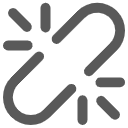
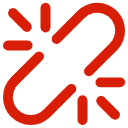
[Update] Update the control button region

diff --git a/GuiRender/RegBlock.py b/GuiRender/RegBlock.py
@@ -15,10 +15,6 @@ class EntryPopup(ttk.Entry):
 
         self.insert(0, text)
 
-        # self['state'] = 'readonly'
-        # self['readonlybackground'] = 'white'
-        # self['selectbackground'] = '#1BA1E2'
-
         self['exportselection'] = False
 
         self.focus_force()
@@ -127,6 +123,9 @@ class ModifyTree(ttk.Treeview):
         # re parse pattern
         self._pattern = re.compile(r"(?P<Address>0x[0-9a-fA-F]+)[\s\|]*(?P<Field0>[0-9]*):*(?P<Field1>[0-9]*)")
 
+        # Registe the handler to control widget
+        self._control_handler.modify_tree_register(self)
+
     def generate(self, mid_value, level):
         self._level = level
         self._tree_root = mid_value
@@ -184,10 +183,13 @@ class ModifyTree(ttk.Treeview):
         # place Entry popup properly
         text = self.item(rowid, "values")
 
-        self._entryPopup = EntryPopup(self, rowid, text[-1], width=self._top_columns_width[-1], justify=tkinter.CENTER)
+        self._entryPopup = EntryPopup(self, rowid, text[-1], control=self._control_handler, width=self._top_columns_width[-1], justify=tkinter.CENTER)
         self._entryPopup.place(x=x, y=y + pady, anchor=tkinter.W, width=self._top_columns_width[-1])
 
     def _double_click_(self, event):
+        item = self.focus()
+        if item:
+            self.delete(item)
         return 'break'
 
     def _destroy_pop_up(self):
@@ -241,6 +243,10 @@ class DisplayTree(ttk.Treeview):
         # Get the control handler
         self._control_handler = control
 
+        # Expand re
+        self._find_indexs_pattern = re.compile(r"\[(?P<Number>[0-9]+)\]")
+        self._locate_indexs_pattern = re.compile(r"<ARRAY_INDEX>")
+
         # Construct the TreeView
         for _sub in self._tree_root:
             if _sub:
@@ -260,7 +266,7 @@ class DisplayTree(ttk.Treeview):
             else:
                 # restore
                 self._level = 0
-                self._parent = [""]
+                self._parent = ""
                 self._address = 0
         # Level 1, 2 have another function to deal
         else:
@@ -281,6 +287,16 @@ class DisplayTree(ttk.Treeview):
                 else:
                     prop = ""
 
+                if self._level == 1:
+                    level = self._level
+                    parent = self._parent
+                    address = self._address
+                    if self._expand(i):
+                        self._level = level
+                        self._parent = parent
+                        self._address = address
+                        continue
+
                 # Insert information into tree view
                 self._cur_iid = self.insert(self._parent, "end", iid=None,
                                             text=i["Register\nName"], image=self._image_tag[self._level],
@@ -298,6 +314,82 @@ class DisplayTree(ttk.Treeview):
             # to get the current parent iid
             self._parent = self.parent(self._parent)
             self._level -= 1
+
+    def _expand(self, i):
+        rslt = self._find_indexs_pattern.search(i["Register\nName"])
+
+        # Search the indexs
+        if rslt:
+            # Collect the key in dictionary
+            if 'Sub-Addr\n(Hex)' in i.keys():
+                sub_addr = int(i['Sub-Addr\n(Hex)'], base=16) + self._address
+            else:
+                sub_addr = ""
+
+            if 'Start\nBit' and 'End\nBit' in i.keys():
+                field = "%d:%d" % (int(i['Start\nBit']), int(i['End\nBit']))
+            else:
+                field = ""
+
+            if 'R/W\nProperty' in i.keys():
+                prop = i['R/W\nProperty']
+            else:
+                prop = ""
+
+            for num in range(int(rslt.group("Number"))):
+
+                name = i["Register\nName"][0: rslt.span()[0]] + str(num)
+
+                self._cur_iid = self.insert(self._parent, "end", iid=None,
+                                            text=name,
+                                            image=self._image_tag[self._level],
+                                            values=(hex(sub_addr + 4*num) if sub_addr else sub_addr, field, prop),
+                                            tags=self._level
+                                            )
+
+                # Exist the children
+                if i["Level"]:
+                    self._parent = self._cur_iid
+                    self._level += 1
+                    # Recursive into the next level
+                    self._subexpand(i["Level"], num)
+
+            self._parent = self.parent(self._parent)
+            self._level -= 1
+
+            return True
+
+        else:
+            return False
+
+    def _subexpand(self, root, num):
+        for i in root:
+            # Collect the key in dictionary
+            if 'Sub-Addr\n(Hex)' in i.keys():
+                sub_addr = int(i['Sub-Addr\n(Hex)'], base=16) + self._address
+            else:
+                sub_addr = ""
+
+            if 'Start\nBit' and 'End\nBit' in i.keys():
+                field = "%d:%d" % (int(i['Start\nBit']), int(i['End\nBit']))
+            else:
+                field = ""
+
+            if 'R/W\nProperty' in i.keys():
+                prop = i['R/W\nProperty']
+            else:
+                prop = ""
+
+            name = self._locate_indexs_pattern.sub(str(num), i["Register\nName"])
+
+            # Insert information into tree view
+            self._cur_iid = self.insert(self._parent, "end", iid=None,
+                                        text=name, image=self._image_tag[self._level],
+                                        values=(hex(sub_addr) if sub_addr else sub_addr, field, prop),
+                                        tags=self._level)
+
+        self._parent = self.parent(self._parent)
+        self._level -= 1
 
     def _item_recursive(self, items):
         if not items:
@@ -350,12 +442,47 @@ class DisplayTree(ttk.Treeview):
 
 class FlatButton(tkinter.Button):
     def __init__(self, master, **kwargs):
+        self._hover_color = "#4c5052"
+        self._default_bg_color = "#3c3f41"
         super(FlatButton, self).__init__(master, relief=tkinter.FLAT, activebackground="#4c5052", bg="#3c3f41", highlightcolor="#4c5052", takefocus=True, **kwargs)
+        self.bind("<Enter>", self._on_enter)
+        self.bind("<Leave>", self._on_level)
+
+    def _on_enter(self, event):
+        self.configure(bg=self._hover_color)
+
+    def _on_level(self, event):
+        self.configure(bg=self._default_bg_color)
 
 
 class DarkLabel(tkinter.Label):
     def __init__(self, master, **kwargs):
         super(DarkLabel, self).__init__(master, relief=tkinter.FLAT, bg="#3c3f41", **kwargs)
+
+
+class AutoCheck(tkinter.Checkbutton):
+    def __init__(self, master, control, **kwargs):
+        self._default_font_color = "#a7a7a7"
+        self._inner_bg_color = "#43494a"
+        self._default_bg_color = "#3c3f41"
+        self.autovar = tkinter.StringVar()
+        super(AutoCheck, self).__init__(master, bg=self._default_bg_color, fg=self._default_font_color,
+                                        selectcolor=self._inner_bg_color,
+                                        activebackground=self._default_bg_color,
+                                        variable=self.autovar,
+                                        onvalue="auto",
+                                        offvalue="bluntness",
+                                        **kwargs)
+        self.deselect()
+        self._control_handler = control
+
+    def _click_callback(self):
+        if self.autovar.get() == "auto":
+            pass
+        elif self.autovar.get() == "bluntness":
+            pass
+        else:
+            pass
 
 
 class StageButton(ttk.Frame):
@@ -392,32 +519,42 @@ class StageButton(ttk.Frame):
         self._connect_button = FlatButton(self._control_button_frame, image=self._open_image, command=self._connect)
         self._connect_button.grid(row=0, column=0, sticky="nswe", padx="4", pady="2")
 
-        # Refresh button
-        self._refresh_button = FlatButton(self._control_button_frame, image=self._refresh_dark_image, command=self._refresh)
-        self._refresh_button.grid(row=0, column=1, sticky="nswe", padx="4", pady="2")
-
         # Stop button
         self._disconnect_button = FlatButton(self._control_button_frame, image=self._stop_dark_image, command=self._disconnect)
-        self._disconnect_button.grid(row=0, column=2, sticky="nswe", padx="4", pady="2")
+        self._disconnect_button.grid(row=0, column=1, sticky="nswe", padx="4", pady="2")
 
         # Separator
-        ttk.Separator(self._control_button_frame, orient=tkinter.VERTICAL).grid(row=0, column=3, sticky="ns", pady="4")
+        ttk.Separator(self._control_button_frame, orient=tkinter.VERTICAL).grid(row=0, column=2, sticky="ns", pady="4")
+
+        # Refresh button
+        self._refresh_button = FlatButton(self._control_button_frame, image=self._refresh_dark_image, command=self._refresh)
+        self._refresh_button.grid(row=0, column=3, sticky="nswe", padx="4", pady="2")
+
+        self._auto_check_button = AutoCheck(self._control_button_frame, self._control_handler)
+        self._auto_check_button.grid(row=0, column=4, sticky="nswe", padx="4", pady="2")
+
+        ttk.Separator(self._control_button_frame, orient=tkinter.VERTICAL).grid(row=0, column=5, sticky="ns", pady="4")
 
         # Stage label
         self._stage_label = DarkLabel(self._control_button_frame, image=self._disconnect_image)
-        self._stage_label.grid(row=0, column=4, sticky="nswe", padx="4", pady="2")
-        # tkinter.Button(self, image=self._refresh_image, relief=tkinter.FLAT, activebackground="#4c5052", bg="#3c3f41").pack(side="left")
+        self._stage_label.grid(row=0, column=6, sticky="nswe", padx="4", pady="2")
 
     def _connect(self):
         if self._control_handler.connect():
-            self._connect_button.configure(style="Stage.TButton", image=self._connect_image, text="connect")
-            self._connect_button.configure()
+            self._connect_button.configure(image=self._open_dark_image)
+            self._refresh_button.configure(image=self._refresh_image)
+            self._disconnect_button.configure(image=self._stop_image)
+            self._stage_label.configure(image=self._connect_image)
 
     def _refresh(self):
-        pass
+        self._control_handler.tree_refresh()
 
     def _disconnect(self):
-        pass
+        if self._control_handler.disconnect():
+            self._connect_button.configure(image=self._open_image)
+            self._refresh_button.configure(image=self._refresh_dark_image)
+            self._disconnect_button.configure(image=self._stop_dark_image)
+            self._stage_label.configure(image=self._disconnect_image)
 
 
 class DscpFrame(ttk.Frame):

diff --git a/GuiRender/control.py b/GuiRender/control.py
@@ -7,10 +7,15 @@ import logging
 class Control:
     def __init__(self):
         self._SWD = None
+        self._connected = False
+        # Modify Tree Handler
+        self._modify_tree_h = None
 
     def connect(self):
         try:
             self._SWD = SelfSWD()
+            self._connected = True
+            logging.info("Connect to the target CORTEX-M33")
         except:
             # Can't open SWD
             self._SWD = None
@@ -21,7 +26,17 @@ class Control:
         return True
 
     def connected(self):
-        return self._SWD.connected()
+        return self._connected
+
+    def disconnect(self):
+        if self.connected():
+            del self._SWD
+            self._connected = False
+            logging.info("Disconnect success")
+            return True
+        else:
+            logging.error("Need connect target first")
+            return False
 
     def write32_plus(self, tpl, data):
         if tpl[1] or tpl[2]:
@@ -59,3 +74,32 @@ class Control:
         mask.invert()
         mask = mask[1:]
         return mask.uint
+
+    def modify_tree_register(self, handler):
+        self._modify_tree_h = handler
+
+    def tree_refresh(self):
+        # Connect and obtain the modify tree handler
+        if self._modify_tree_h and self._connected:
+            # Get all the modify tree items
+            logging.info("Get the tree values")
+            self._sub_tree_refresh()
+
+    def _sub_tree_refresh(self, p=None):
+        items = self._modify_tree_h.get_children(p)
+        if not items:
+            return
+        for item in items:
+            # Get corresponding tree item information
+            dct = self._modify_tree_h.item(item)
+            # Ignore the level0
+            if dct["tags"][0] == 0:
+                pass
+            else:
+                # Get the corresponding address value again
+                value = str(hex(self.read32_plus(self._modify_tree_h.parse_address(dct["values"][0]))))
+                values = dct["values"]
+                values[-1] = value
+                # Reload
+                self._modify_tree_h.item(item, values=values)
+            self._sub_tree_refresh(item)

diff --git a/GuiRender/__init__.py b/GuiRender/__init__.py
@@ -7,13 +7,13 @@ import tkinter
 class GUIBody:
     def __init__(self, para):
         self._root = tkinter.Tk()
-        self._root.title("ListenAI Jlink Tool")
+        self._root.title("JG Kit")
         self._root.geometry("1600x800")
         self._root.resizable(width=False, height=False)
-        self._root.wm_attributes("-topmost", 1)
+        self._root.iconphoto(True, tkinter.PhotoImage(file="./GuiRender/.image/icon/exchange.png"))
 
         # Configure style
-        # self._base_style()
+        self._base_style()
         self._control_handler = Control()
 
         self._regtree = RegBlock.RegTree(self._root, self._control_handler, para)
@@ -22,7 +22,8 @@ class GUIBody:
 
         self._root.mainloop()
 
-    # def _base_style(self):
+    def _base_style(self):
+        pass
         # style = ttk.Style()
         # style.configure("TButton",
         #                 background="#3c3f41",

diff --git a/main.py b/main.py
@@ -1,10 +1,10 @@
 import logging
+from Excel2Json import E2J
+import GuiRender
+
 
 LOG_FORMAT = "%(asctime)s - %(levelname)s - %(message)s"
 logging.basicConfig(level=logging.INFO, format=LOG_FORMAT)
-
-from Excel2Json import E2J
-import GuiRender
 
 
 def device_generator():
@@ -36,7 +36,7 @@ def device_generator():
     def _sort_func(elem):
         return int(elem["Address Start"], base=16)
 
-    venus_device.sort(key=_sort_func, reverse=True)
+    venus_device.sort(key=_sort_func, reverse=False)
 
     return venus_device
 
